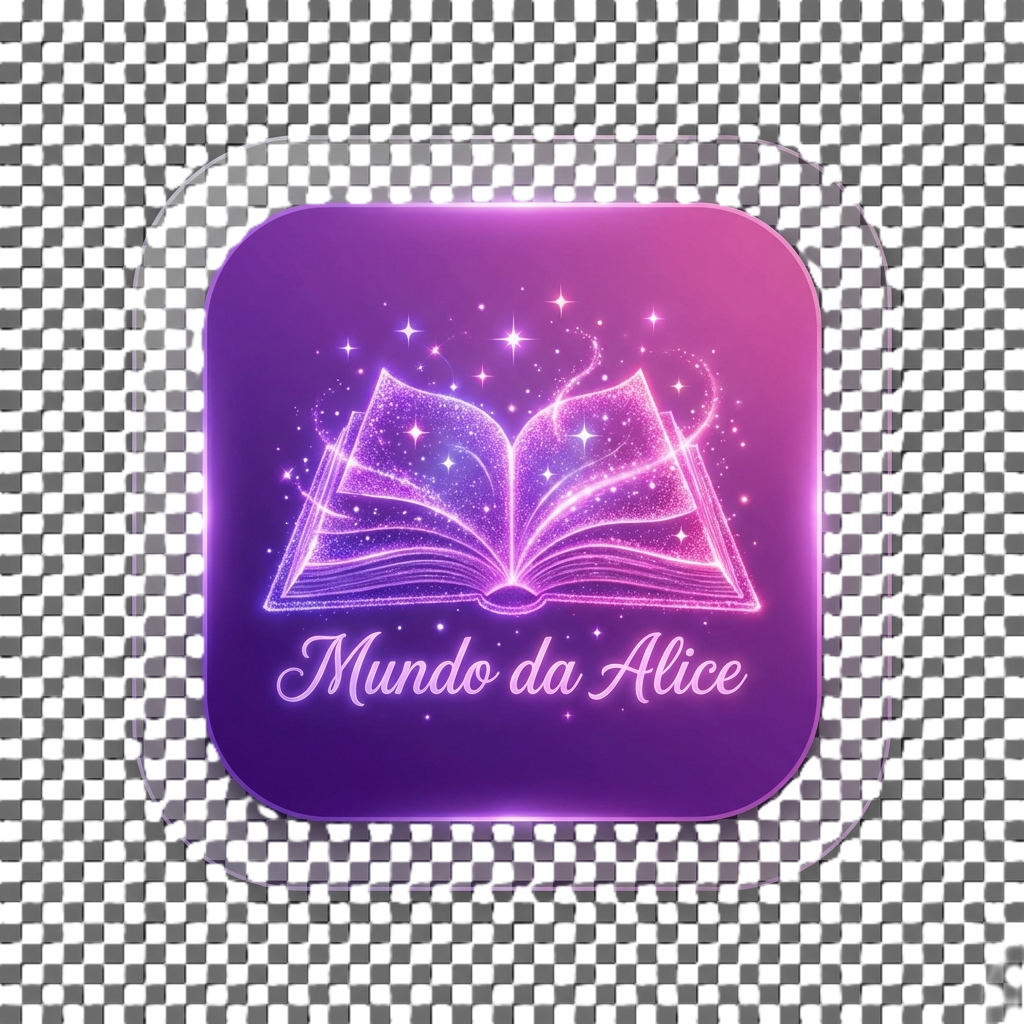
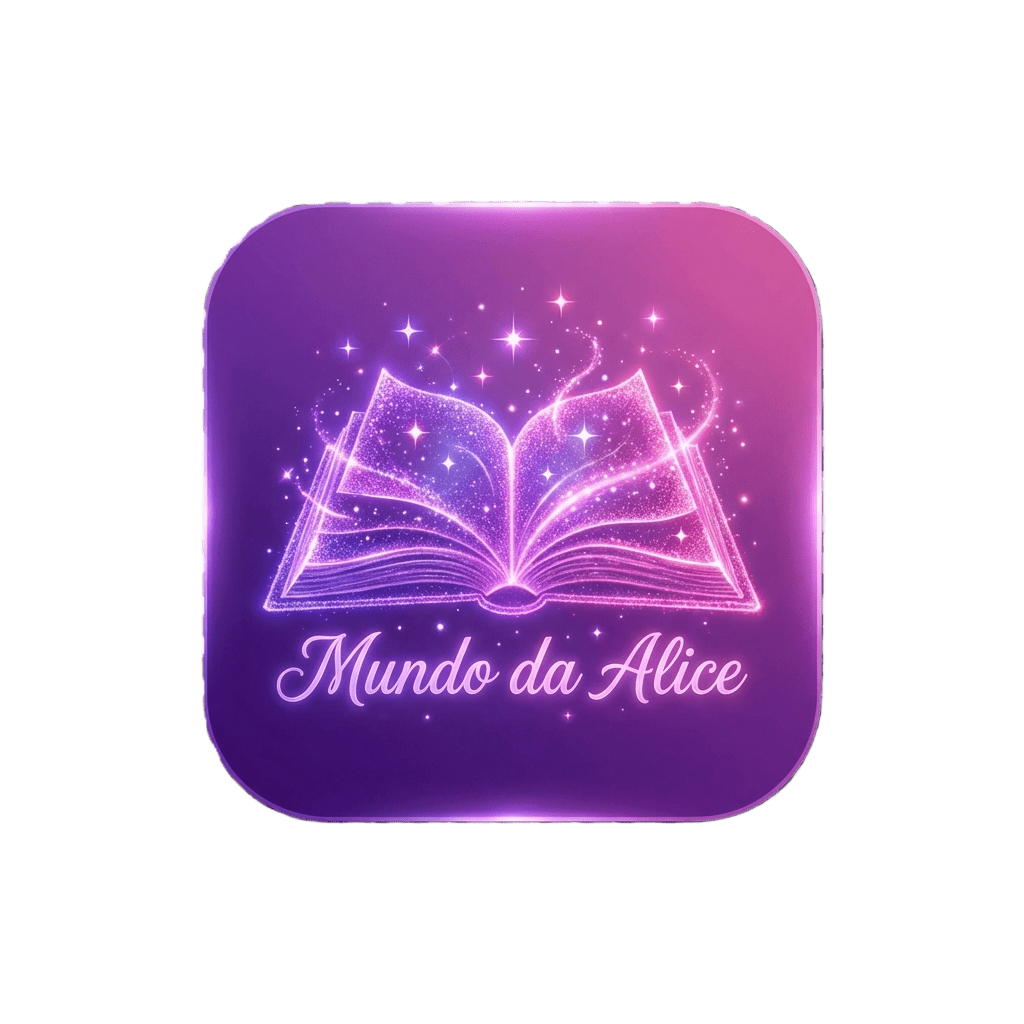
v4.6.0

diff --git a/style.css b/style.css
@@ -3,8 +3,13 @@ body {
 }
 
 .app-title {
-    font-family: 'Cinzel', serif;
-    letter-spacing: 0.05em;
+    font-family: 'Poppins', sans-serif;
+    font-weight: 700;
+    letter-spacing: 0.02em;
+}
+
+img[src="icon.png"] {
+    border-radius: 20%;
 }
 
 @keyframes slideIn {
@@ -61,13 +66,26 @@ body {
 
 /* Splash Screen Animations */
 @keyframes fadeIn {
-    from { opacity: 0; transform: scale(0.95); }
-    to { opacity: 1; transform: scale(1); }
+    from {
+        opacity: 0;
+        transform: scale(0.95);
+    }
+
+    to {
+        opacity: 1;
+        transform: scale(1);
+    }
 }
 
 @keyframes fadeOut {
-    from { opacity: 1; }
-    to { opacity: 0; visibility: hidden; }
+    from {
+        opacity: 1;
+    }
+
+    to {
+        opacity: 0;
+        visibility: hidden;
+    }
 }
 
 .animate-fade-in {

diff --git a/script.js b/script.js
@@ -848,7 +848,7 @@ function renderLogin() {
             <div class="bg-white rounded-2xl shadow-2xl p-8 w-full max-w-md">
                 <div class="text-center mb-8">
                     <div class="mb-4">
-                        <img src="icon.png" alt="Mundo da Alice" class="w-24 h-24 mx-auto">
+                        <img src="icon.png" alt="Mundo da Alice" class="w-32 h-32 mx-auto">
                     </div>
                     <h1 class="text-3xl font-bold text-gray-800 mb-2 app-title">Mundo da Alice</h1>
                     <p class="text-gray-600 italic">"${currentQuote.quote}"</p>

diff --git a/biblioteca.html b/biblioteca.html
@@ -23,7 +23,7 @@
     <!-- Google Fonts -->
     <link rel="preconnect" href="https://fonts.googleapis.com">
     <link rel="preconnect" href="https://fonts.gstatic.com" crossorigin>
-    <link href="https://fonts.googleapis.com/css2?family=Cinzel:wght@400;600;700&display=swap" rel="stylesheet">
+    <link href="https://fonts.googleapis.com/css2?family=Poppins:wght@400;600;700&display=swap" rel="stylesheet">
 
     <script src="https://cdn.tailwindcss.com"></script>
     <link rel="stylesheet" href="style.css">
